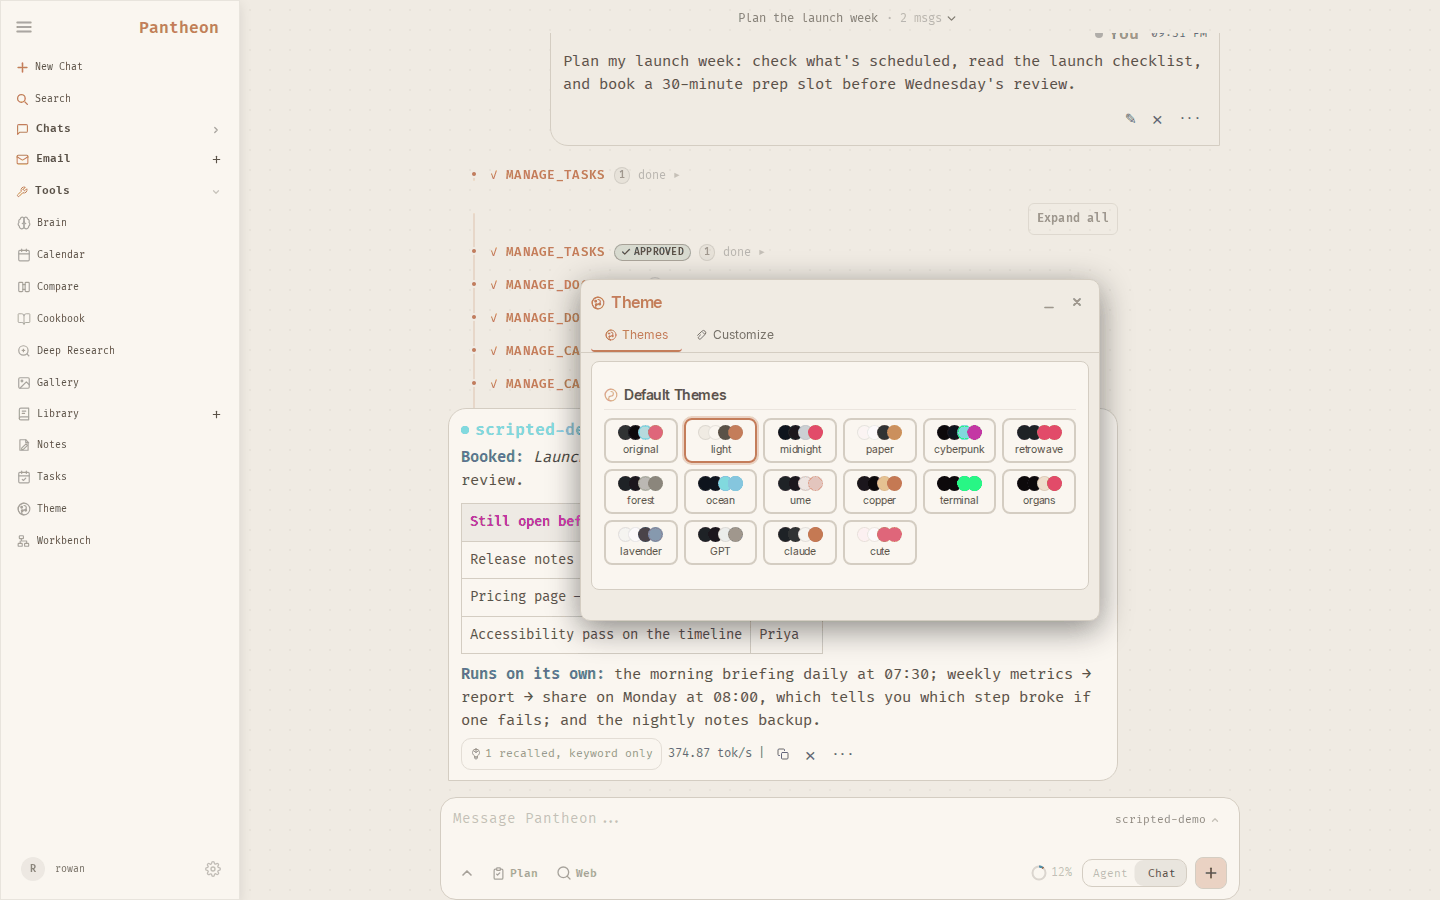
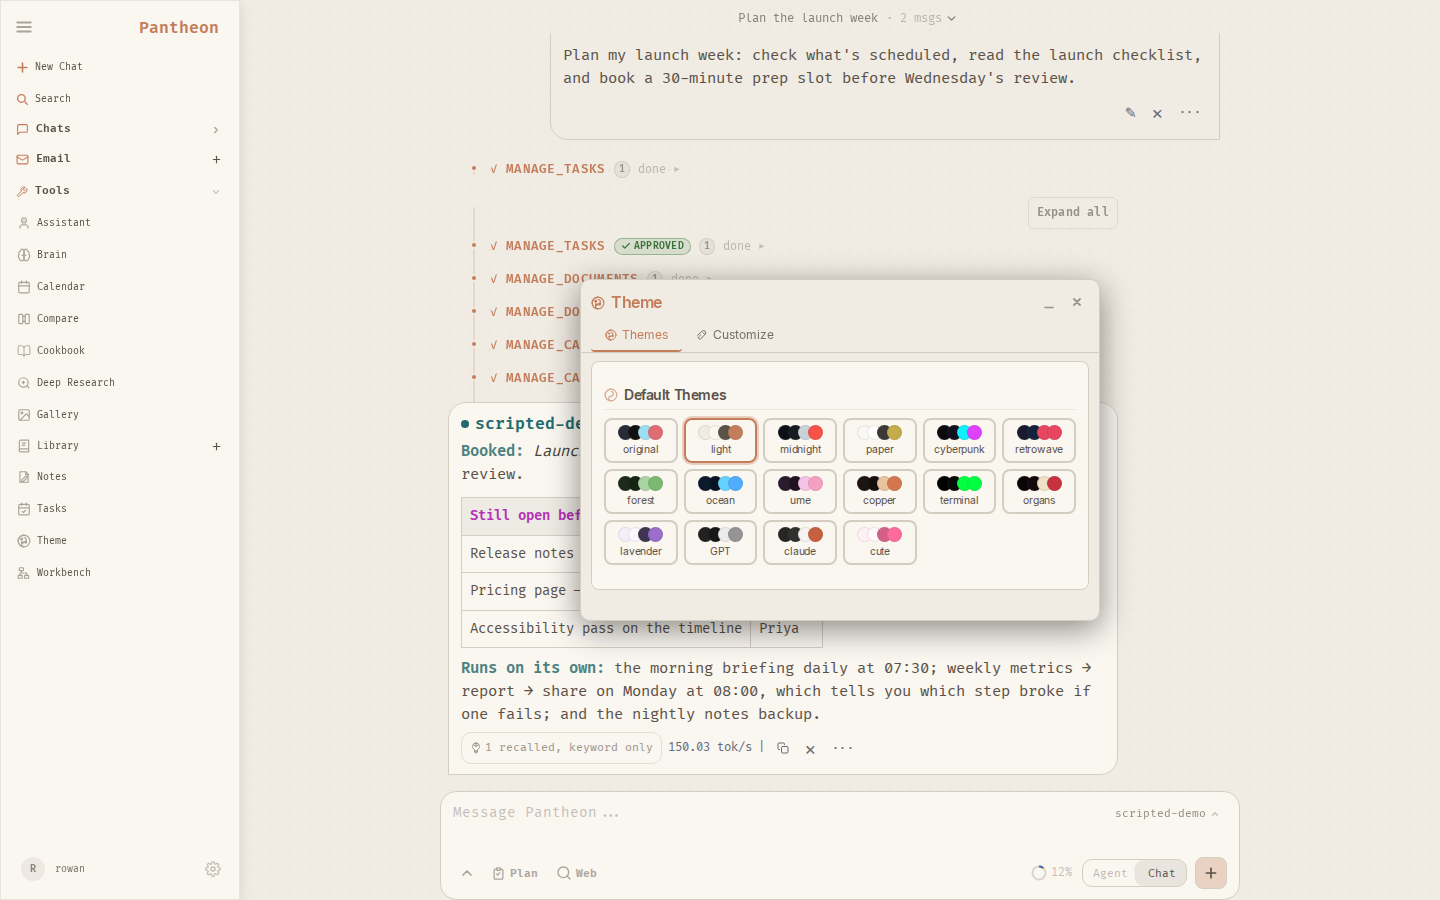
docs(media): re-capture after wave C — the Workbench's shelf, the Assistant's row, the Brain's seven
python3 scripts/showcase/capture.py --workstation on this tree: 25 files
changed past the churn threshold, palette-*.png and phone-tasks.png kept.
What moved, each picture looked at:

- workbench-*: the shelf (Tasks and chains, Morning inbox brief · On,
  New workflow) beside the chain's dry run; the workflow's start is a fourth
  dimmed step, so the alt text says four, and the caption names the shelf;
- every desktop shot with the sidebar open: the Assistant's row in Tools
  (B1044); light shots: the model's name legible (B1072);
- brain-*: seven memories, no blank style card (B1071);
- the GIFs re-recorded (workflow.gif shows the shelf; the same moves).

docs/media/README.md: the workbench row and the seeded world name the
workflow. Every other caption still says what its picture shows.

Claude-Session: https://claude.ai/code/session_01TPszU2oX3npAqxYYRzSSW7

diff --git a/README.md b/README.md
@@ -64,7 +64,7 @@
 <table>
 <tr>
 <td width="50%" valign="top"><picture><source media="(prefers-color-scheme: dark)" srcset="docs/media/chat-dark.png"><img src="docs/media/chat-light.png" alt="A chat where the agent listed the scheduled tasks, read the launch checklist, checked the calendar and booked a slot, each step listed above its answer" width="100%"></picture><br><sub><b>Agents you can follow</b> — every tool call in the turn, the one you approved marked as such, and the answer.</sub></td>
-<td width="50%" valign="top"><picture><source media="(prefers-color-scheme: dark)" srcset="docs/media/workbench-dark.png"><img src="docs/media/workbench-light.png" alt="The Workbench canvas: a four-step chain with a dashed failure branch, each step saying what a run would do, and three steps dimmed as not reached" width="100%"></picture><br><sub><b>Workbench</b> — automations on a canvas, wired <i>if it works</i> or <i>if it fails</i>; <i>Show me what this would do</i> plans the whole chain and runs nothing.</sub></td>
+<td width="50%" valign="top"><picture><source media="(prefers-color-scheme: dark)" srcset="docs/media/workbench-dark.png"><img src="docs/media/workbench-light.png" alt="The Workbench: on the left a shelf with Tasks and chains, a workflow called Morning inbox brief and New workflow; on the canvas a four-step chain with a dashed failure branch, each step saying what a run would do, and four steps dimmed as not reached" width="100%"></picture><br><sub><b>Workbench</b> — automations on a canvas, wired <i>if it works</i> or <i>if it fails</i>; <i>Show me what this would do</i> plans the whole chain and runs nothing. The shelf keeps each workflow: named steps with one start, switched on as one.</sub></td>
 </tr>
 <tr>
 <td width="50%" valign="top"><picture><source media="(prefers-color-scheme: dark)" srcset="docs/media/tasks-dark.png"><img src="docs/media/tasks-light.png" alt="The Tasks window listing scheduled tasks with their schedules, retry counts and a Part of a workflow chip on each" width="100%"></picture><br><sub><b>Tasks</b> — scheduled prompts and actions with retries, time zones and time limits; each card says which workflow it is part of.</sub></td>

diff --git a/docs/media/README.md b/docs/media/README.md
@@ -29,10 +29,10 @@ requirements, pass the one that does: `--server-python .venv/bin/python`.
    so neither your shell nor your `.env` can put the demo into your real install, or
    your real models into a picture.
 2. Seeds a fictional world **through the API** — documents in nested folders, a chain
-   of automations with a failure branch and a dry run, skills with an imported package
-   and a group, notes, a week of calendar, memories. The skill package is the one
-   exception: importing fetches from GitHub, so the importer's own `install_package` is
-   handed the package instead, before the server starts.
+   of automations with a failure branch and a dry run, a workflow (two steps, one start),
+   skills with an imported package and a group, notes, a week of calendar, memories. The
+   skill package is the one exception: importing fetches from GitHub, so the importer's
+   own `install_package` is handed the package instead, before the server starts.
 3. Plays the chats on a **scripted stand-in model** (`scripts/showcase/demo_model.py`,
    shown as `scripted-demo`): its words are written down, and Pantheon runs every tool
    call for real against the demo data — the approval cards are real, and so are the
@@ -61,7 +61,7 @@ matches the reader's GitHub theme.
 |---|---|
 | `workstation-*` | the agent's Ubuntu desktop docked beside its chat: it wrote a page, ran a command and opened it in Firefox |
 | `chat-*` | an agent turn — each tool call, the approval card it raised, the answer |
-| `workbench-*` | the Workbench canvas after *Show me what this would do* on a chain with a failure branch |
+| `workbench-*` | the Workbench canvas after *Show me what this would do* on a chain with a failure branch, the shelf of workflows beside it |
 | `tasks-*` | the Tasks window |
 | `documents-*` | the Library's documents, in folders |
 | `skills-*` | the Skills window: the person's own, an imported package, a group |
